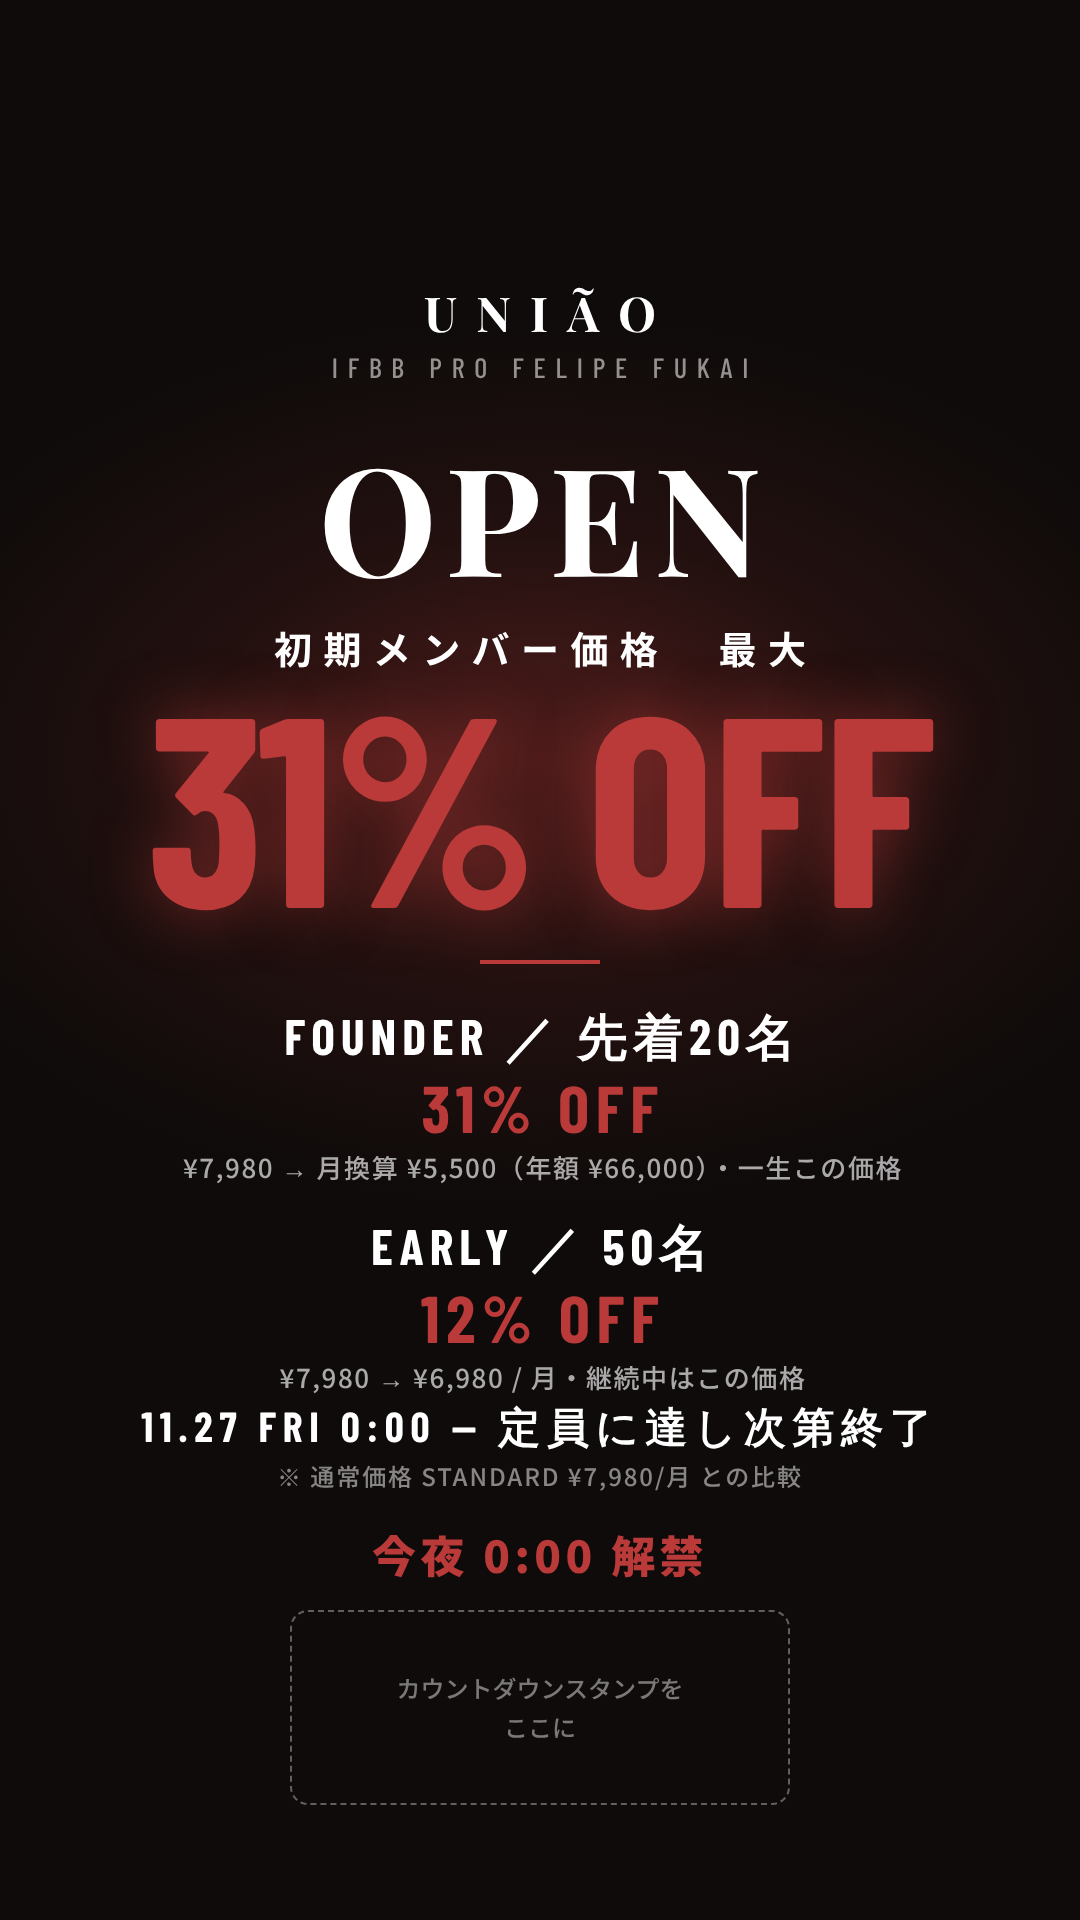
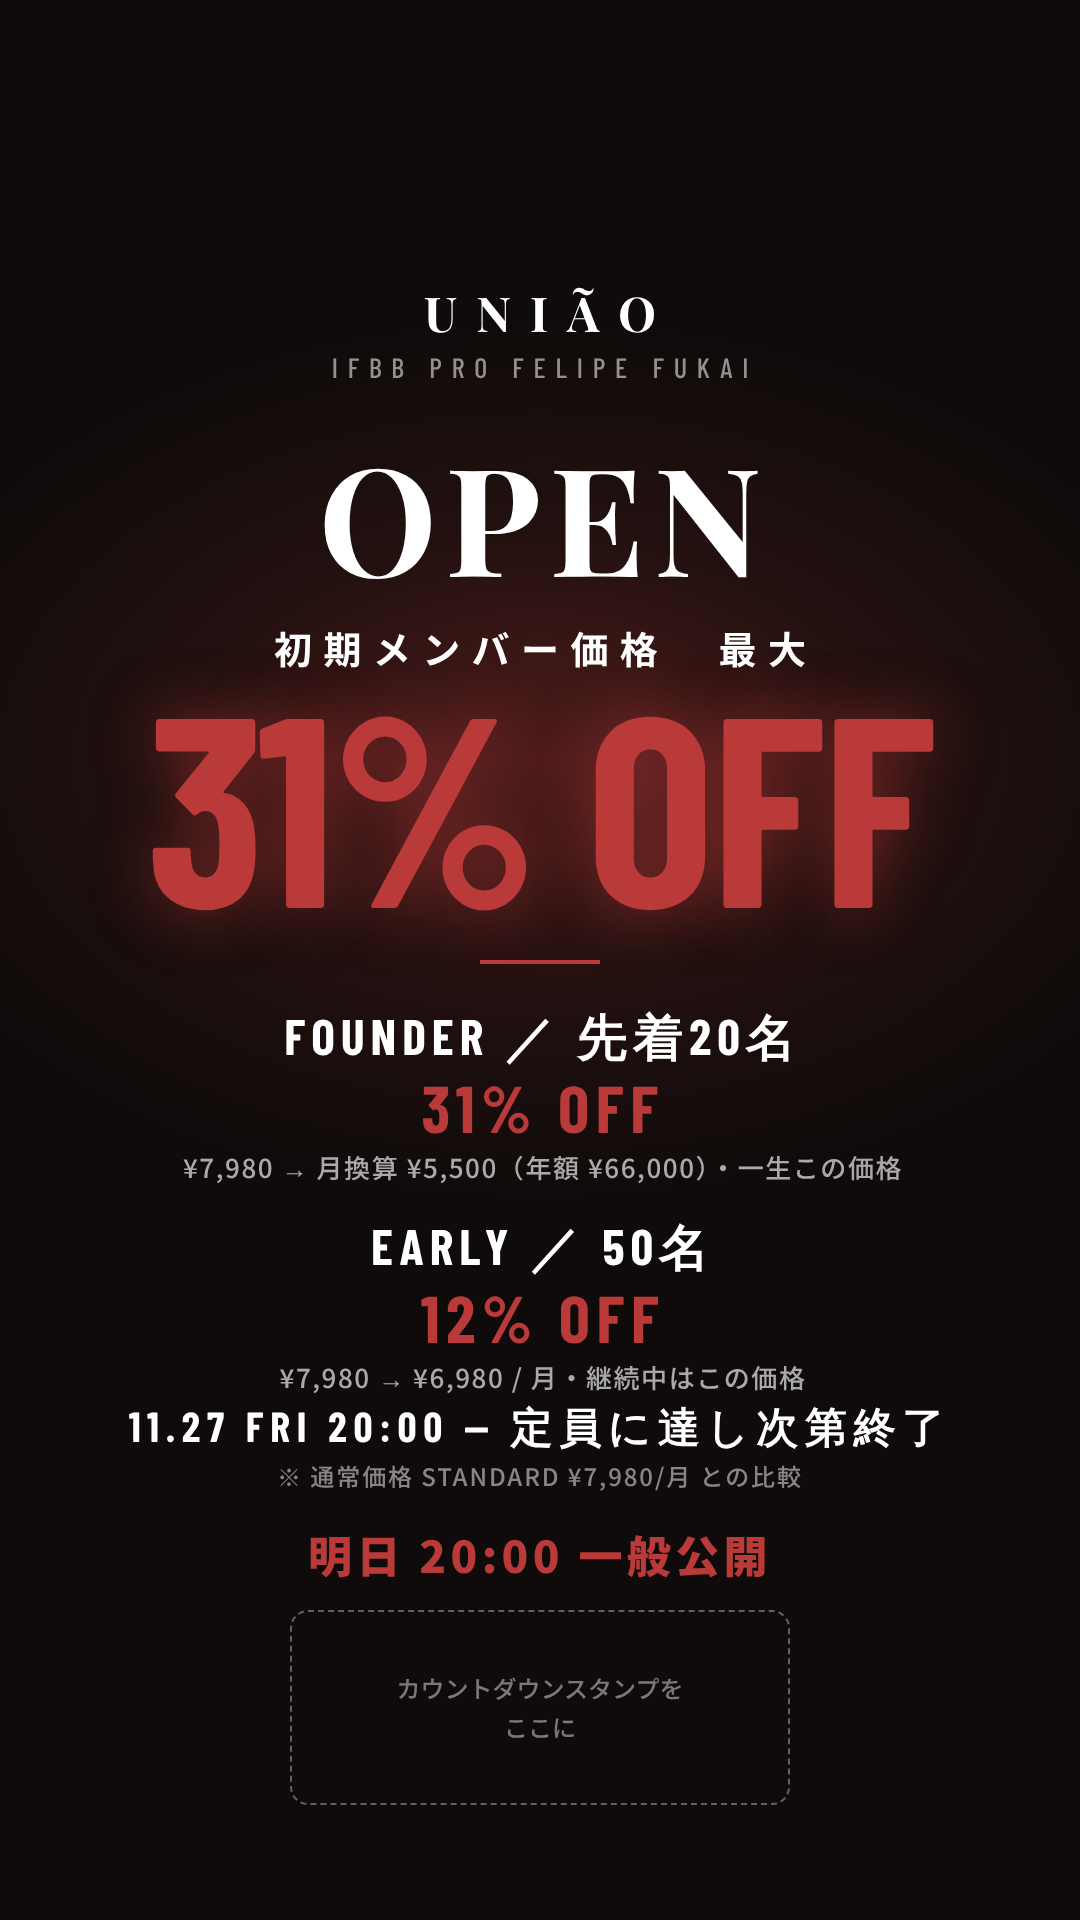
General open set to 11/27 20:00 (#145)
* Add UPPER DAY YouTube thumbnails (part 1, 2) and the series thumbnail template

Claude-Session: https://claude.ai/code/session_01HRty6kL8VRnpLHHHzSF3iS

* UPPER DAY thumbnails: reframe to keep the face visible and hide the burned-in caption

Claude-Session: https://claude.ai/code/session_01HRty6kL8VRnpLHHHzSF3iS

* UPPER DAY thumbnails v2: loud yellow/red creator style, distinct from the community look

Claude-Session: https://claude.ai/code/session_01HRty6kL8VRnpLHHHzSF3iS

* UPPER DAY thumbnails v3: competition roar photo plus gym face chip

Claude-Session: https://claude.ai/code/session_01HRty6kL8VRnpLHHHzSF3iS

* UPPER DAY thumbnails: soften hook to Felipe's voice

Claude-Session: https://claude.ai/code/session_01HRty6kL8VRnpLHHHzSF3iS

* UPPER DAY thumbnails: keep the hook line on one row

Claude-Session: https://claude.ai/code/session_01HRty6kL8VRnpLHHHzSF3iS

* UPPER DAY thumbnails: hook label on one line

Claude-Session: https://claude.ai/code/session_01HRty6kL8VRnpLHHHzSF3iS

* UPPER DAY thumbnails on the brand guide: FF black base, white type, laurel red as the single accent, gym press photo; add visual identity PDF

Claude-Session: https://claude.ai/code/session_01HRty6kL8VRnpLHHHzSF3iS

* UPPER DAY thumbnail: three promise-led headline variants on the brand template

Claude-Session: https://claude.ai/code/session_01HRty6kL8VRnpLHHHzSF3iS

* Add post-live story images (thanks + next live 11/23) and story template
[…]

Changed region(s): [[0.4583, 0.7188, 0.8556, 0.8438], [0.275, 0.7812, 0.4889, 0.8438], [0.1222, 0.7188, 0.4278, 0.75]]

diff --git a/uniao.html b/uniao.html
@@ -331,7 +331,7 @@ fbq('track', 'ViewContent', {content_name: 'uniao-v4'});
     <div class="hvid" id="hvid" data-id="M1rwhaDaGqw" role="button" tabindex="0" aria-label="動画を再生"><img src="/assets/lp/video-poster.jpg" alt="UNIÃO 紹介動画" width="1280" height="720" fetchpriority="high" /></div>
     <p class="vcap">▶ まず、この動画を見てください。</p>
     <button class="cta" type="button" data-go>先行案内を受け取る（無料）</button>
-    <p class="cta-note">11/27（金）OPEN。11/26（木）20時、登録者だけに Founder・Early の先行案内が届きます</p>
+    <p class="cta-note">11/27（金）20:00 一般公開。11/26（木）20時、登録者だけに Founder・Early の先行案内が届きます</p>
   </section>
 
   <!-- 1 state -->
@@ -583,7 +583,7 @@ fbq('track', 'ViewContent', {content_name: 'uniao-v4'});
       <label><span class="sr-only">メールアドレス</span><input type="email" name="email" required autocomplete="email" inputmode="email" placeholder="メールアドレス" /></label>
       <button type="submit" class="cta">先行案内を受け取る（無料）</button>
     </form>
-    <p class="cta-note">11/26（木）20時に、登録者だけに Founder 20名・Early 50名の先行案内を送ります。<br />それまでに登録した方全員に届きます。11/27（金）は一般公開。</p>
+    <p class="cta-note">11/26（木）20時に、登録者だけに Founder 20名・Early 50名の先行案内を送ります。<br />それまでに登録した方全員に届きます。11/27（金）20:00 に一般公開。</p>
     <p class="fine">※先行案内は入会枠の確保を保証するものではありません。先着順です。</p>
   </section>
 

diff --git a/thanks.html b/thanks.html
@@ -103,7 +103,7 @@ src="https://www.facebook.com/tr?id=2606382796526025&ev=PageView&noscript=1"
     <img src="assets/logo-ff-dark.png" alt="Felipe Fukai" class="thanks-logo" width="480" height="377" />
     <p class="thanks-done">登録が完了しました</p>
     <h1 class="thanks-h1">先行案内、受け取れます。</h1>
-    <p class="thanks-lead">11/26（木）20時ごろ、<strong>登録いただいたメールアドレス</strong>へ Founder 20名・Early 50名の先行案内をお送りします。11/27（金）は一般公開です。</p>
+    <p class="thanks-lead">11/26（木）20時ごろ、<strong>登録いただいたメールアドレス</strong>へ Founder 20名・Early 50名の先行案内をお送りします。11/27（金）20:00 に一般公開です。</p>
     <p class="thanks-lead">UNIÃO オープンまで、登録者限定でトレーニングの解説を先行公開していきます。</p>
 
     <section class="thanks-q" id="profile-q">

diff --git a/assets/story/story-template-1127-countdown-red.html b/assets/story/story-template-1127-countdown-red.html
@@ -32,8 +32,8 @@ body{font-family:"NS",sans-serif;color:#fff;position:relative;background:#0E0B0A
 <div class="rule"></div>
 <p class="c row" style="top:1005px">FOUNDER ／ 先着20名<b>31% OFF</b><small>¥7,980 → 月換算 ¥5,500（年額 ¥66,000）・一生この価格</small></p>
 <p class="c row" style="top:1215px">EARLY ／ 50名<b>12% OFF</b><small>¥7,980 → ¥6,980 / 月・継続中はこの価格</small></p>
-<p class="c date">11.27 FRI 0:00 — 定員に達し次第終了</p>
+<p class="c date">11.27 FRI 20:00 — 定員に達し次第終了</p>
 <p class="c note">※ 通常価格 STANDARD ¥7,980/月 との比較</p>
-<p class="c live">今夜 0:00 解禁</p>
+<p class="c live">明日 20:00 一般公開</p>
 <div class="slot">カウントダウンスタンプを<br>ここに</div>
 </body></html>

diff --git a/assets/story/story-template-1127-countdown.html b/assets/story/story-template-1127-countdown.html
@@ -28,8 +28,8 @@ body{font-family:"B","NS",sans-serif;color:#fff;position:relative;background:rad
 <div class="rule"></div>
 <p class="c row" style="top:1010px">FOUNDER ／ 先着20名<b>31% OFF</b><small>¥7,980 → 月換算 ¥5,500（年額 ¥66,000）・一生この価格</small></p>
 <p class="c row" style="top:1185px">EARLY ／ 50名<b>12% OFF</b><small>¥7,980 → ¥6,980 / 月・継続中はこの価格</small></p>
-<p class="c date">11.27 FRI 0:00 — 定員に達し次第終了</p>
+<p class="c date">11.27 FRI 20:00 — 定員に達し次第終了</p>
 <p class="c note">※ 通常価格 STANDARD ¥7,980/月 との比較</p>
-<p class="c live">今夜 0:00 解禁</p>
+<p class="c live">明日 20:00 一般公開</p>
 <div class="slot">カウントダウンスタンプを<br>ここに</div>
 </body></html>

diff --git a/join.html b/join.html
@@ -115,7 +115,7 @@ fbq('init','2606382796526025');fbq('track','PageView');fbq('track','ViewContent'
   </div>
 
   <a class="j-cta" href="#plans" id="go">UNIÃO に入る<small>先行案内の2プランを見る</small></a>
-  <p class="j-note">一般公開は 11/27（金）。このページは事前登録者だけに送っています。</p>
+  <p class="j-note">一般公開は 11/27（金）20:00。このページは事前登録者だけに送っています。</p>
 
   <section class="j-sec" id="plans">
     <h2>PLANS ｜ 先行案内</h2>
